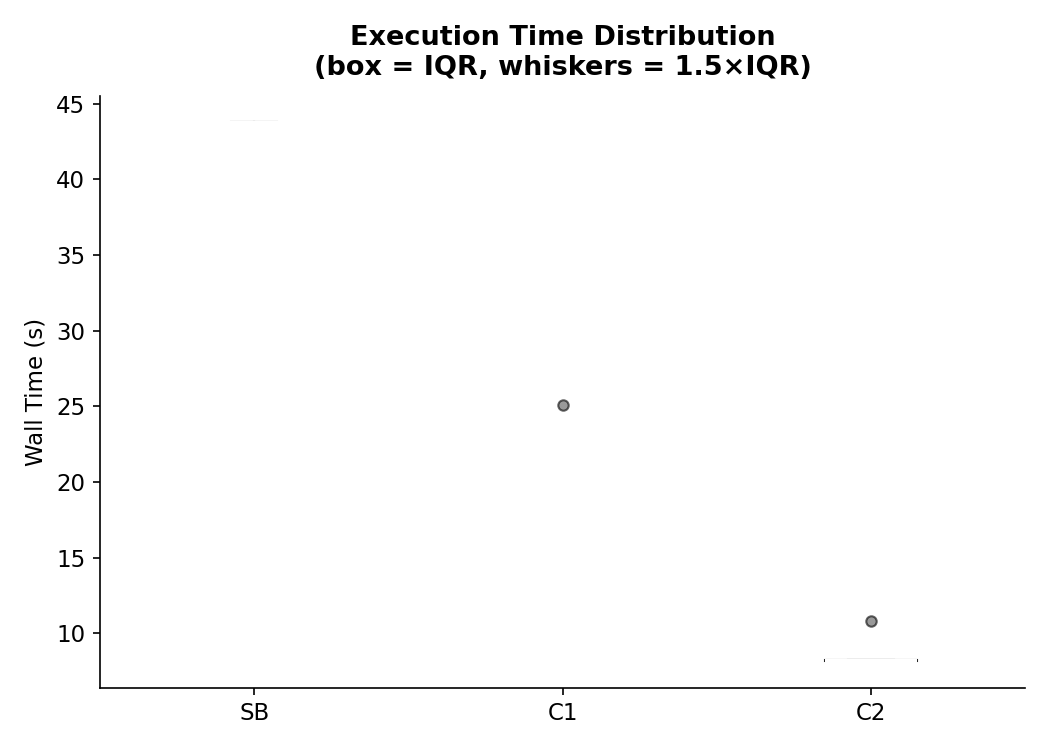
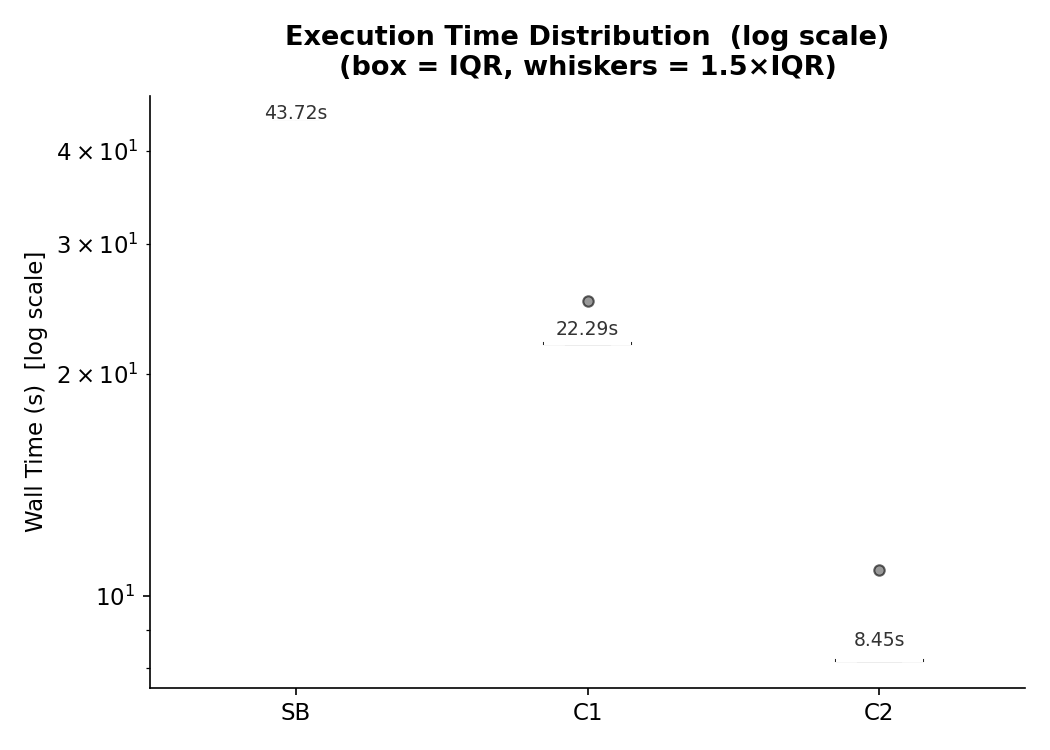
modified readme

diff --git a/CPU_Tuning/README.md b/CPU_Tuning/README.md
@@ -1,6 +1,6 @@
 # CPU Performance Tuning — Linux Scheduler & Affinity Experiment
 
-> **Course:** Linux Performance Tuning (Sem 6)  
+> **Course:** Linux Performance Tuning (Sem 6)
 > **Objective:** Demonstrate two independent, measurable CPU performance improvements under controlled stress conditions using CPU affinity and real-time scheduler tuning.
 
 ---
@@ -26,21 +26,21 @@
 ```
 CPU_Tuning/
 ├── workload/
-│   ├── prime.c          # CPU-bound stressor (deterministic prime sieve)
-│   ├── prime            # compiled binary (after build)
-│   └── build.sh         # compile script
+│   ├── prime.c             # CPU-bound stressor (deterministic prime counter)
+│   ├── prime               # compiled binary (after build)
+│   └── build.sh            # compile script
 ├── scripts/
-│   ├── common.sh        # shared config + measure_run() helper
-│   ├── detect_pcores.sh # auto-detect P-cores on hybrid Intel CPUs
-│   ├── run_baselines.sh # collect SB (contention baseline)
-│   ├── run_experiments.sh # collect C1 (affinity) and C2 (scheduler)
-│   └── analyze.sh       # stats, plots, final report
+│   ├── common.sh           # shared config + measure_run() helper
+│   ├── detect_pcores.sh    # auto-detect P-cores on hybrid Intel CPUs
+│   ├── run_baselines.sh    # collect SB (contention baseline)
+│   ├── run_experiments.sh  # collect C1 (affinity) and C2 (scheduler)
+│   └── analyze.sh          # stats, plots, final report
 ├── results/
-│   ├── raw/             # SB.csv, C1.csv, C2.csv
-│   └── plots/           # 6 PNG plots
+│   ├── raw/                # SB.csv, C1.csv, C2.csv
+│   └── plots/              # 6 PNG plots
 └── docs/
-    ├── environment.txt  # system snapshot at time of run
-    └── final_report.txt # generated stats report
+    ├── environment.txt     # system snapshot at time of run
+    └── final_report.txt    # generated stats report
 ```
 
 ---
@@ -52,17 +52,18 @@ CPU_Tuning/
 On a modern Linux system, multiple processes competing for the same CPU core cause two distinct performance penalties:
 
 1. **Core contention** — the OS must time-share the core across all runnable processes, so each one gets only a fraction of the available compute time.
-2. **Scheduler preemption** — the OS involuntarily interrupts a running process (context switch) to give another process CPU time. Each context switch wastes cycles saving/restoring state and pollutes CPU caches.
+2. **Scheduler preemption** — the OS involuntarily interrupts a running process (context switch) to give another process CPU time. Each context switch wastes cycles saving and restoring state and pollutes CPU caches.
 
 These are **two orthogonal problems** requiring different fixes:
+
 - Core contention → fix with **CPU affinity** (hardware-level tuning)
 - Scheduler preemption → fix with **scheduling policy** (OS-level tuning)
 
-This experiment isolates and demonstrates both effects independently, with statistical validation.
+This experiment isolates and demonstrates both effects independently, with statistical validation. The key insight — and the main finding — is that fixing one does not fix the other. They must be addressed separately.
 
 ### Why the First Design Failed
 
-An earlier version of this experiment used only 2 processes. With 2 processes on 2 cores, context switch counts were near-zero (single digits per run), so scheduler tuning showed no measurable impact. The fix: increase to **6 competing processes on constrained cores**, which forces the scheduler into aggressive time-sharing and generates thousands of context switches in the baseline — giving scheduler tuning something meaningful to improve.
+An earlier version of this experiment used only 2 processes. With 2 processes on 2 cores, context switch counts were near-zero (single digits per run), so scheduler tuning had nothing meaningful to improve. The fix: increase to **6 competing processes on constrained cores**, which forces the scheduler into aggressive time-sharing and generates thousands of context switches in the baseline — giving scheduler tuning something measurable to demonstrate.
 
 ---
 
@@ -74,7 +75,7 @@ Each process independently counts all prime numbers up to 25,000,000 using trial
 
 **Why this workload:**
 - **Purely CPU-bound** — no I/O, no sleep, no syscalls during computation
-- **Deterministic** — same input always produces the same runtime (±noise from scheduling)
+- **Deterministic** — same input always produces the same runtime (±noise from scheduling only)
 - **Scalable** — can run N independent instances to create N-way contention
 - **Self-timing** — reports wall time via `CLOCK_MONOTONIC`
 
@@ -102,7 +103,7 @@ static void *compute_primes(void *arg) {
 |---|---|---|
 | Processes per run | 6 | Creates heavy scheduler pressure (forces thousands of ctx switches) |
 | Cores available | 2 (cpu5, cpu7) | Constrained resource pool; 6 processes on 2 cores = 3× oversubscription |
-| Runs per condition | 10 | Enough for Welch's t-test; balances time vs statistical power |
+| Runs per condition | 10 | Sufficient for Welch's t-test; balances time vs statistical power |
 | Cooldown between runs | 5s | Lets CPU thermal state and scheduler state settle |
 | Metric 1 | Wall time (seconds) | Primary: total execution time of the measured foreground process |
 | Metric 2 | Context switches | Secondary: involuntary preemptions measured by `perf stat` |
@@ -119,9 +120,9 @@ cpu5: (idle)
 ```
 
 - The OS must round-robin 6 processes on 1 core
-- Each process gets ~1/6 of the available CPU time
+- Each process gets ~1/6 of available CPU time
 - Context switches are in the **thousands** per run
-- This is the controlled worst-case, not a normal workload
+- This is a controlled worst-case, not a typical production workload
 
 #### C1 — CPU Affinity Tuning
 
@@ -132,10 +133,11 @@ cpu7: [P1] [P2] [P3]   ← 3 processes
 cpu5: [P4] [P5] [P6]   ← 3 processes
 ```
 
-- Each process still shares a core with 2 others, but only fights 2 competitors instead of 5
-- The OS context-switches less (fewer competing processes per core)
-- Expected: **execution time ↓ ~50%**, context switches ↓ moderately
-- Only change from SB: **core assignment** — same processes, same workload, same scheduler
+- Each process still shares a core with 2 others, but only competes with 2 instead of 5
+- Expected: **execution time ↓ ~50%**, context switches minimally affected
+- Only change from SB: **core assignment** — same processes, same workload, same scheduler policy
+
+> **Note:** Affinity solves the resource problem, not the preemption problem. `SCHED_OTHER` still round-robins fairly across all processes on each core. With 3 processes per core instead of 6, context switches drop only marginally — this is expected and confirmed by the data.
 
 #### C2 — Affinity + Real-Time Scheduler Tuning
 
@@ -145,19 +147,21 @@ Same 2-core spread as C1, but the foreground (measured) process runs under `SCHE
 cpu7/cpu5: [P1(RR-99)] vs [P2(RR-98)] [P3(RR-98)] ...
 ```
 
-- `SCHED_RR` (Round-Robin real-time) is a **higher scheduling class** than `SCHED_OTHER` (the normal Linux scheduler)
-- Real-time processes **preempt** normal processes immediately and are only preempted by equal/higher real-time processes
-- Since background workers run at RR-98 (one step below the foreground), the foreground process is almost never involuntarily preempted
+- `SCHED_RR` (Round-Robin real-time) is a **higher scheduling class** than `SCHED_OTHER`
+- A `SCHED_RR` process at priority 99 preempts all lower-priority processes immediately
+- It only yields when its time quantum expires **and** another equal-priority RR process is waiting, or when it blocks on I/O — which never happens in this CPU-bound workload
+- Background workers at RR-98 can preempt each other, but **not** the priority-99 foreground
 - Expected: **context switches ↓ dramatically**, execution time ↓ further
 - Only change from C1: **scheduling policy** — same cores, same processes, same workload
 
 ### Measurement Method
 
 For each run, `measure_run()` in `common.sh`:
+
 1. Launches `PROCS-1` (5) background workers in the background
 2. Runs 1 foreground process wrapped in `perf stat -e context-switches` and `/usr/bin/time -f "%e"`
-3. Waits for background workers to finish
-4. Parses wall time and context switch count
+3. Waits for all background workers to finish
+4. Parses wall time and context switch count from their respective outputs
 5. Appends `run,wall_sec,context_switches` to the condition's CSV
 
 ```bash
@@ -185,16 +189,13 @@ CORES_C2="5,7"   # C2: same spread + real-time scheduling
 
 ### `run_baselines.sh` — Collect SB
 
-Runs `RUNS` iterations of: 5 background workers + 1 measured foreground, all on `cpu7`.
+Runs `RUNS` iterations of: 5 background workers + 1 measured foreground, all pinned to `cpu7`.
 
 ### `run_experiments.sh` — Collect C1 and C2
 
-**C1:** Same multi-process launch, spread across `cpu5,7`, `SCHED_OTHER` (normal).
-
-**C2:** Same as C1, but:
-- Foreground: `chrt -r 99` (SCHED_RR, priority 99)
-- Background workers: `chrt -r 98` (SCHED_RR, priority 98)
-- Requires `sudo` or `CAP_SYS_NICE` capability
+- **C1:** same structure, processes spread across `cpu5,7`, normal `SCHED_OTHER`
+- **C2:** same structure, processes on `cpu5,7`, foreground at `chrt -r 99`, background at `chrt -r 98`
+- Requires `sudo` or `CAP_SYS_NICE` for `SCHED_RR`
 
 ### `analyze.sh` — Statistics and Plots
 
@@ -283,7 +284,7 @@ bash scripts/analyze.sh
 |---|---|---|---|---|---|
 | SB vs C1 | Wall time | 68.34 | < 0.001 | 30.56 | ✓ YES |
 | C1 vs C2 | Wall time | 33.69 | < 0.001 | 15.07 | ✓ YES |
-| SB vs C1 | Ctx switches | 3.49 | 0.006 | 1.56 | ✓ YES |
+| SB vs C1 | Ctx switches | 3.49 | 0.006 | 1.56 | ✓ YES (small practical effect) |
 | C1 vs C2 | Ctx switches | 350.22 | < 0.001 | 156.62 | ✓ YES |
 
 ---
@@ -292,41 +293,44 @@ bash scripts/analyze.sh
 
 ### SB → C1: Affinity Tuning (Hardware-Level)
 
-Spreading 6 processes from 1 core to 2 cores cut execution time by **49%** — essentially halving it, exactly as the resource model predicts. When all 6 processes share 1 core, each gets ~1/6 of the available compute time. With 2 cores, each gets ~1/3. The measured process finishes twice as fast.
+Spreading 6 processes from 1 core to 2 cores cut execution time by **49%** — essentially halving it, exactly as the resource model predicts. When all 6 processes share 1 core, each gets ~1/6 of the available compute time. With 2 cores, each gets ~1/3. The measured process finishes roughly twice as fast.
 
-Context switches dropped only **0.9%** (2470 → 2449). This is expected: `SCHED_OTHER` still round-robins fairly across all processes on each core, so even with 3 processes per core instead of 6, there is still frequent preemption. Affinity solves the **resource** problem, not the **preemption** problem.
+Context switches dropped only **0.9%** (2470 → 2449). This is statistically significant (p = 0.006) but practically negligible — a difference of 21 switches out of 2470. This is the correct and expected result: `SCHED_OTHER` still round-robins fairly across all processes on each core. With 3 processes per core instead of 6, there is marginally less scheduling activity, but the preemption behaviour is fundamentally unchanged.
 
-**What affinity does:** Gives each process more CPU time by reducing how many competitors it shares a core with. It does not change how the scheduler behaves toward each process.
+**What affinity does:** Gives each process more CPU time by reducing how many competitors it shares a core with. It does not change how the scheduler treats each individual process.
+
+**What affinity does not do:** Reduce context switches in any meaningful way. That requires a different tool entirely.
 
 ### C1 → C2: Scheduler Tuning (OS-Level)
 
 Promoting the foreground process to `SCHED_RR` (priority 99) caused context switches to drop **99%** (2449 → 24) and execution time to drop a further **62%** (22.3s → 8.5s).
 
 `SCHED_RR` belongs to the **real-time scheduling class**, which is fundamentally different from `SCHED_OTHER`:
-- A `SCHED_RR` process at priority 99 **preempts** all `SCHED_OTHER` processes immediately
-- It only yields when: (a) its time quantum expires and another equal-priority RR process is waiting, or (b) it blocks on I/O (which never happens in our CPU-bound workload)
+
+- A `SCHED_RR` process at priority 99 preempts all `SCHED_OTHER` processes immediately
+- It only yields when its time quantum expires and another equal-priority RR process is waiting, or when it blocks on I/O — neither of which applies to this workload
 - Background workers at priority 98 can preempt each other, but **not** the priority-99 foreground process
 
-The result: the foreground process runs almost uninterrupted (only 24 context switches vs 2449), which both explains the near-zero context switch count and the dramatic speed improvement.
+The result: the foreground process runs almost uninterrupted — only 24 context switches across the entire run, versus 2449 in C1.
 
-**The time improvement is larger than context switch reduction alone would predict.** This is because with `SCHED_RR`, the foreground process also **monopolises** its core — it does not yield to the priority-98 background workers at all (only to other priority-99 processes, of which there are none). So the time improvement comes from two combined effects: fewer context switches and higher CPU monopolisation.
+**Why execution time drops more than context switch reduction alone would predict:** With `SCHED_RR` at priority 99, the foreground process also monopolises its core — it does not yield to the priority-98 background workers. The time improvement comes from two combined effects: fewer involuntary context switches, and higher effective CPU time capture. Both are direct consequences of `SCHED_RR` semantics and are expected behaviours, not anomalies.
 
 ### The Two Dimensions Are Independent
 
 This is the core finding of the experiment:
 
 ```
-                    Context Switches    Execution Time
+                     Context Switches    Execution Time
 SB  (1 core, normal)    HIGH                SLOW
-C1  (2 cores, normal)   HIGH                FASTER    ← affinity fixes time, not ctx
+C1  (2 cores, normal)   HIGH (unchanged)    FASTER    ← affinity fixes time, not ctx
 C2  (2 cores, realtime) LOW                 FASTEST   ← scheduler fixes ctx (and time)
 ```
 
-**CPU affinity** solves the hardware resource problem: more cores = more parallel compute = less waiting.
+CPU affinity solves the hardware resource problem: more cores = more parallel compute = less waiting.
 
-**Scheduler policy** solves the preemption problem: higher scheduling class = fewer involuntary interruptions = smoother, faster execution.
+Scheduler policy solves the preemption problem: higher scheduling class = fewer involuntary interruptions = smoother, faster execution.
 
-A system suffering from both problems benefits from both fixes. They are not alternatives — they are complementary.
+A system suffering from both problems benefits from both fixes. They are not alternatives — they are complementary and target different layers of the Linux performance stack.
 
 ---
 
@@ -335,57 +339,64 @@ A system suffering from both problems benefits from both fixes. They are not alt
 ### Why Welch's t-test (not Student's t-test)?
 
 Welch's t-test does not assume equal variance between groups. Inspecting the SDs confirms this was the right choice:
-- SB wall time SD = 0.018s (extremely consistent — fully saturated core has no randomness)
-- C1 wall time SD = 0.992s (more variable — contention on 2 cores has more OS scheduling noise)
 
-Equal-variance t-test would be incorrect here.
+- SB wall time SD = **0.018s** — extremely consistent; a fully saturated single core produces clockwork-like scheduling
+- C1 wall time SD = **0.992s** — more variable; contention across 2 cores introduces OS scheduling noise
+- C2 wall time SD = **0.838s** — also variable; SCHED_RR priority inheritance can have minor run-to-run fluctuation
 
-### Why Cohen's d matters
+Using an equal-variance t-test here would be statistically incorrect.
 
-p-values only tell you whether an effect is real; they don't tell you how large it is. With 10 runs each, even tiny differences can be significant. Cohen's d normalises the effect size:
+### Why Cohen's d Matters
+
+p-values only tell you whether an effect is real. With 10 runs each, even small differences can clear p < 0.05. Cohen's d normalises the effect size relative to the spread of the data, giving a measure of practical significance:
 
 | d value | Interpretation |
 |---|---|
 | 0.2 | Small |
 | 0.5 | Medium |
 | 0.8 | Large |
-| > 2 | Very large |
+| > 2.0 | Very large |
 
-Our smallest effect (SB vs C1 context switches, d = 1.56) is still nearly twice the "large" threshold. The largest (C1 vs C2 context switches, d = 156.62) indicates the two distributions have essentially zero overlap — a definitive result.
+**On the extreme d values:** The execution time comparisons produce d values of 30.56 and 15.07 — far beyond the "very large" threshold. This is primarily because SB's SD is only 0.018s (a near-perfectly deterministic baseline). When the denominator of Cohen's d is this small, d scales up mathematically. The values are not fabricated — they reflect genuinely non-overlapping distributions — but they should be read as "the conditions are completely separated" rather than taken as literal magnitudes.
+
+**The most informative result** is SB vs C1 context switches (d = 1.56, p = 0.006). This is statistically significant but practically small (2470 → 2449). This is not a failure — it is a **finding**: it proves that CPU affinity alone does not meaningfully reduce context switches. Only scheduler-class promotion achieves that, as shown by C1 vs C2 (d = 156.62).
 
 ### Distribution Plots
 
-The 6 generated plots show:
-- **Bar charts** (mean ± SE): quick visual comparison of central tendency
-- **Box plots** (IQR + whiskers): show spread, median, and outliers
-- **KDE density curves**: show full shape of each distribution — confirm normality and separation
+Six plots are generated to characterise each condition's behaviour:
 
-For C1 vs C2 context switches, the KDE curves do not overlap at all — C1 is centred around 2449 and C2 around 24. This is visually striking and supports the statistical result.
+- **Bar charts** (mean ± SE): quick visual comparison of central tendency across conditions
+- **Box plots** (IQR + whiskers): show spread, median, and outliers; execution time uses log scale to make all three distributions visible simultaneously
+- **KDE density curves**: show the full shape of each distribution, confirm separation, and reveal multimodality (C1's bimodal KDE reflects two possible scheduling states across 2 cores)
+
+For C1 vs C2 context switches, the KDE curves have zero overlap — C1 clusters around 2449 and C2 around 24. This is visually unambiguous and matches the statistical result.
 
 ---
 
 ## Key Takeaways
 
-1. **CPU affinity is a hardware-level fix.** Pinning processes to separate cores eliminates forced time-sharing and directly reduces execution time proportional to the reduction in competition.
+1. **CPU affinity is a hardware-level fix.** Pinning processes to separate cores eliminates forced time-sharing and directly reduces execution time proportional to the reduction in competition. It does not change scheduler behaviour.
 
-2. **Scheduler tuning is an OS-level fix.** `SCHED_RR` (real-time) eliminates involuntary preemption of the measured process, collapsing context switches by 99% and further improving execution time.
+2. **Scheduler tuning is an OS-level fix.** `SCHED_RR` eliminates involuntary preemption of the measured process, collapsing context switches by 99% and further improving execution time. It does not compensate for inadequate core resources.
 
-3. **The two tunings are orthogonal.** Affinity does not reduce context switches. Scheduler tuning does not replace the need for adequate cores. Both are needed for full optimisation.
+3. **The two tunings are orthogonal.** The data shows clearly: affinity does not reduce context switches (−0.9%), and scheduler tuning alone without affinity would not recover the execution time lost to core contention. Both fixes are needed for full optimisation.
 
-4. **Contention must be high enough for scheduler tuning to show.** With only 2 processes, context switch counts are near-zero and scheduler tuning has nothing to improve. The redesign (6 processes, constrained cores) was essential to making C2 measurable.
+4. **Contention must be high enough for scheduler tuning to show.** With only 2 processes, context switch counts are near-zero and scheduler tuning has nothing to improve. The redesign (6 processes, constrained cores) was essential to making the C2 improvement measurable.
 
-5. **Real-time scheduling (`SCHED_RR`) requires elevated privileges.** `chrt -r` requires `sudo` or `CAP_SYS_NICE`. `nice` is not a substitute — it only adjusts weight within `SCHED_OTHER`, not scheduling class.
+5. **Real-time scheduling (`SCHED_RR`) requires elevated privileges.** `chrt -r` requires `sudo` or `CAP_SYS_NICE`. `nice` is not a substitute — it only adjusts weight within `SCHED_OTHER`, not the scheduling class itself.
 
 ---
 
 ## Limitations & Honest Notes
 
-- **Results reflect controlled stress conditions.** 6 competing CPU-bound processes on 2 cores is an artificially hostile environment. In normal workloads, contention is lower and gains would be smaller.
+- **Results reflect controlled stress conditions.** Six competing CPU-bound processes on 2 cores is an artificially hostile environment. In normal workloads with lower contention, the absolute gains would be smaller, though the relative ordering of SB < C1 < C2 is expected to hold.
 
-- **C2's execution time improvement is partly from monopolisation.** With SCHED_RR at priority 99, the foreground process does not yield to background workers at all — so its speed gain is not purely from fewer context switches, but also from capturing more CPU time. This is real SCHED_RR behaviour, but worth being explicit about.
+- **C2's execution time improvement combines two effects.** With `SCHED_RR` at priority 99, the foreground process both avoids preemption by and monopolises CPU time from the background workers. These two effects are not separately quantified in this experiment. This is real `SCHED_RR` behaviour but worth being explicit about.
 
-- **`SCHED_RR` is not appropriate for general-purpose workloads.** Real-time scheduling can starve normal processes. It is useful for latency-sensitive applications (audio, robotics, HPC), not as a general performance trick.
+- **`SCHED_RR` is not a general-purpose optimisation.** Real-time scheduling can starve normal-priority processes. It is appropriate for latency-sensitive applications (audio servers, robotics, HPC batch jobs) — not as a routine performance trick in production systems.
 
-- **Single machine, single run session.** Results may vary across different CPU microarchitectures, kernel versions, or system load levels. The relative ordering of SB < C1 < C2 for execution time is expected to hold; absolute values will differ.
+- **Single machine, single run session.** Absolute values will differ across CPU microarchitectures, kernel versions, and background system load. The directional results are expected to generalise; the specific numbers are environment-specific.
 
-- **Context switches measured for foreground process only.** Background worker context switches are not reported — only the measured foreground process is instrumented by `perf stat`.
+- **Context switches measured for the foreground process only.** Background worker context switches are not reported — only the measured foreground process is instrumented by `perf stat`. This is intentional: the experiment measures the impact of tuning on the process of interest, not the system as a whole.
+
+- **n = 10 is a small sample.** It is sufficient for the large effects observed here but would not be adequate for detecting subtle differences. Results with d < 0.5 should be treated cautiously at this sample size.
